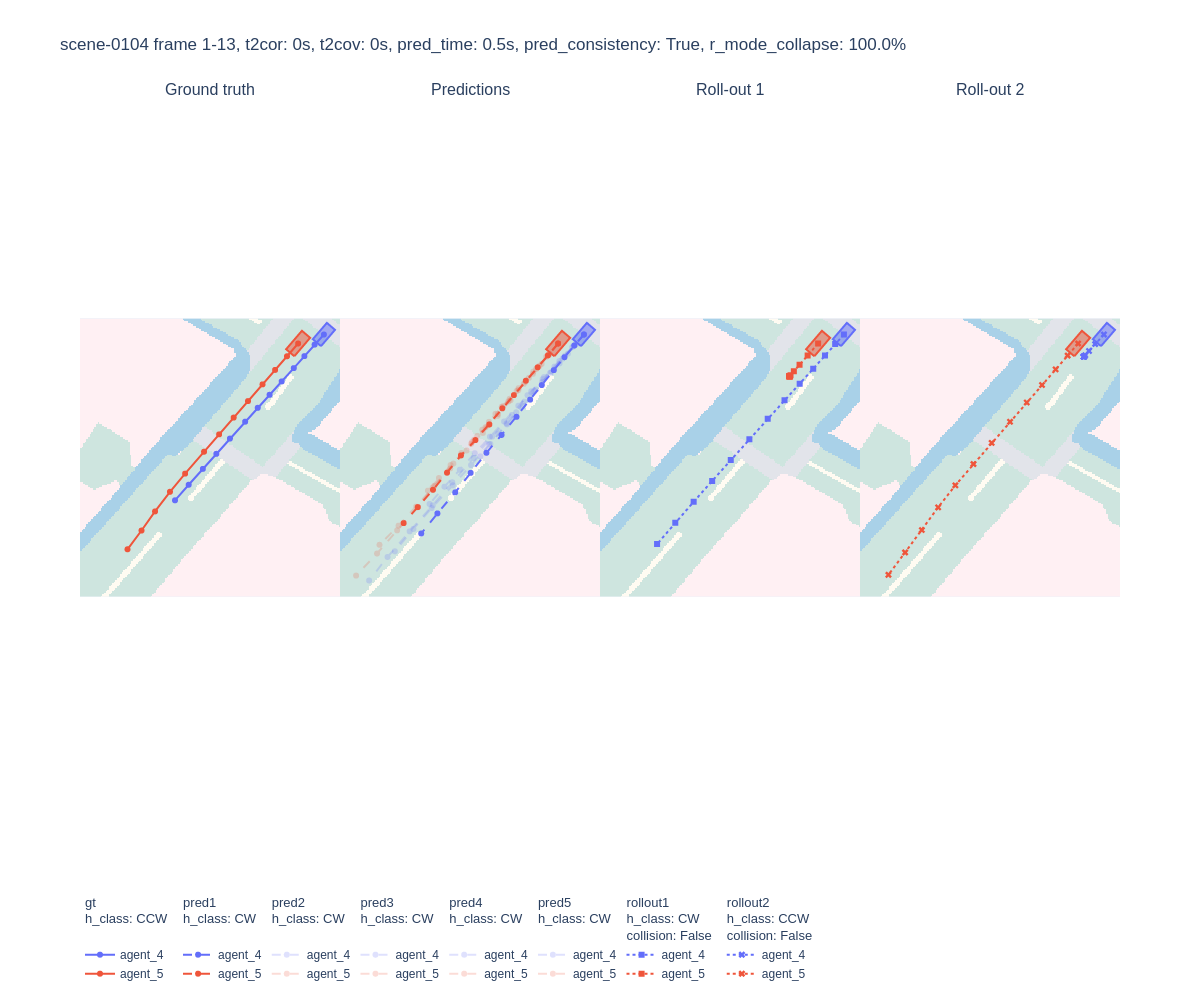
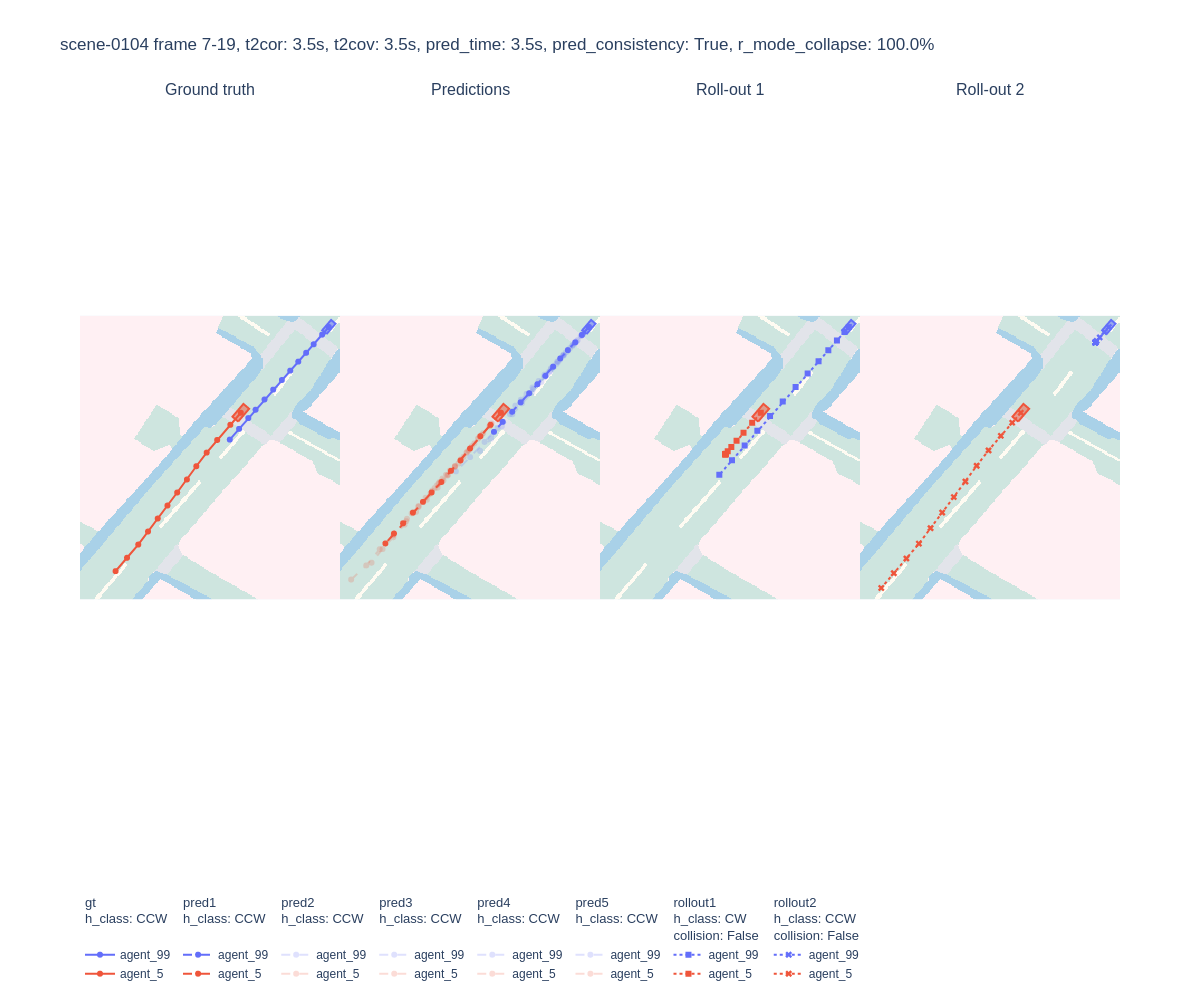
minor changes

Changed region(s): [[0.0617, 0.31, 0.9558, 0.62], [0.2158, 0.899, 0.7092, 0.992], [0.2467, 0.031, 0.7708, 0.062]]

diff --git a/calc_modemetrics.py b/calc_modemetrics.py
@@ -57,11 +57,11 @@ plot_mode_overview = False
 plot_all_modes = False
 plot_all_scenes = False
 
-save_modes_plots = True
+save_modes_plots = False
 save_modes_csv = True
 
 focus_scene_bool = False
-scene_focus_name = 'scene-0103'
+scene_focus_name = 'scene-0104'
 
 """"""" SETUP """""""
 torch.set_default_dtype(torch.float32)
@@ -92,15 +92,15 @@ def get_model_prediction_af(data, sample_k):
 
 
 """ Get predictions and compute metrics """
-df_interactions = pd.read_csv(interaction_scenes_input) # input and output
-
+df_interactions_in = pd.read_csv(interaction_scenes_input) # input
+df_interactions_out = df_interactions_in.copy() # save output in similar df
 
 generator = data_generator(cfg, log, split=split, phase='testing')
 scene_preprocessors = generator.sequence
 scene_names = [scene_preprocessors[s].seq_name for s in range(len(scene_preprocessors))]
 
 
-for idx, row in df_interactions.iterrows():
+for idx, row in df_interactions_in.iterrows():
 
     try:
         # get relevant interaction variables
@@ -237,11 +237,11 @@ for idx, row in df_interactions.iterrows():
                         r_mode_collapse = round(100*(sum(mode_collapse)/len(mode_collapse)), 1)
 
                         # save metrics to existing df
-                        df_interactions.loc[idx, 'pred_time'] = pred_time
-                        df_interactions.loc[idx, 't2cor'] = t2cor
-                        df_interactions.loc[idx, 't2cov'] = t2cov
-                        df_interactions.loc[idx, 'r_mode_collapse'] = r_mode_collapse
-                        df_interactions.loc[idx, 'prediction_consistency'] = prediction_consistentcy
+                        df_interactions_out.loc[idx, 'pred_time'] = pred_time
+                        df_interactions_out.loc[idx, 't2cor'] = t2cor
+                        df_interactions_out.loc[idx, 't2cov'] = t2cov
+                        df_interactions_out.loc[idx, 'r_mode_collapse'] = r_mode_collapse
+                        df_interactions_out.loc[idx, 'prediction_consistency'] = prediction_consistentcy
 
                         # save figure and metrics:
                         fig = figs_scene[-2]
@@ -257,6 +257,8 @@ for idx, row in df_interactions.iterrows():
                             pio.write_image(fig, save_pred_imgs_path + f'/{scene_name}_{focus_agents[0]}_{focus_agents[1]}.png',width=1200, height=1000)
                     else:
                         raise ValueError('prediction length too short for mode evaluation')
+                        # print('prediction length too short for mode evaluation')
+
                     break # break for loop 
 
     except Exception as e:
@@ -265,7 +267,7 @@ for idx, row in df_interactions.iterrows():
 
 # save df
 if save_modes_csv:
-    df_interactions.to_csv(mode_metrics_path, index = False)
+    df_interactions_out.to_csv(mode_metrics_path, index = False)
 
 end_time = time.time()
 execution_time = end_time - start_time
